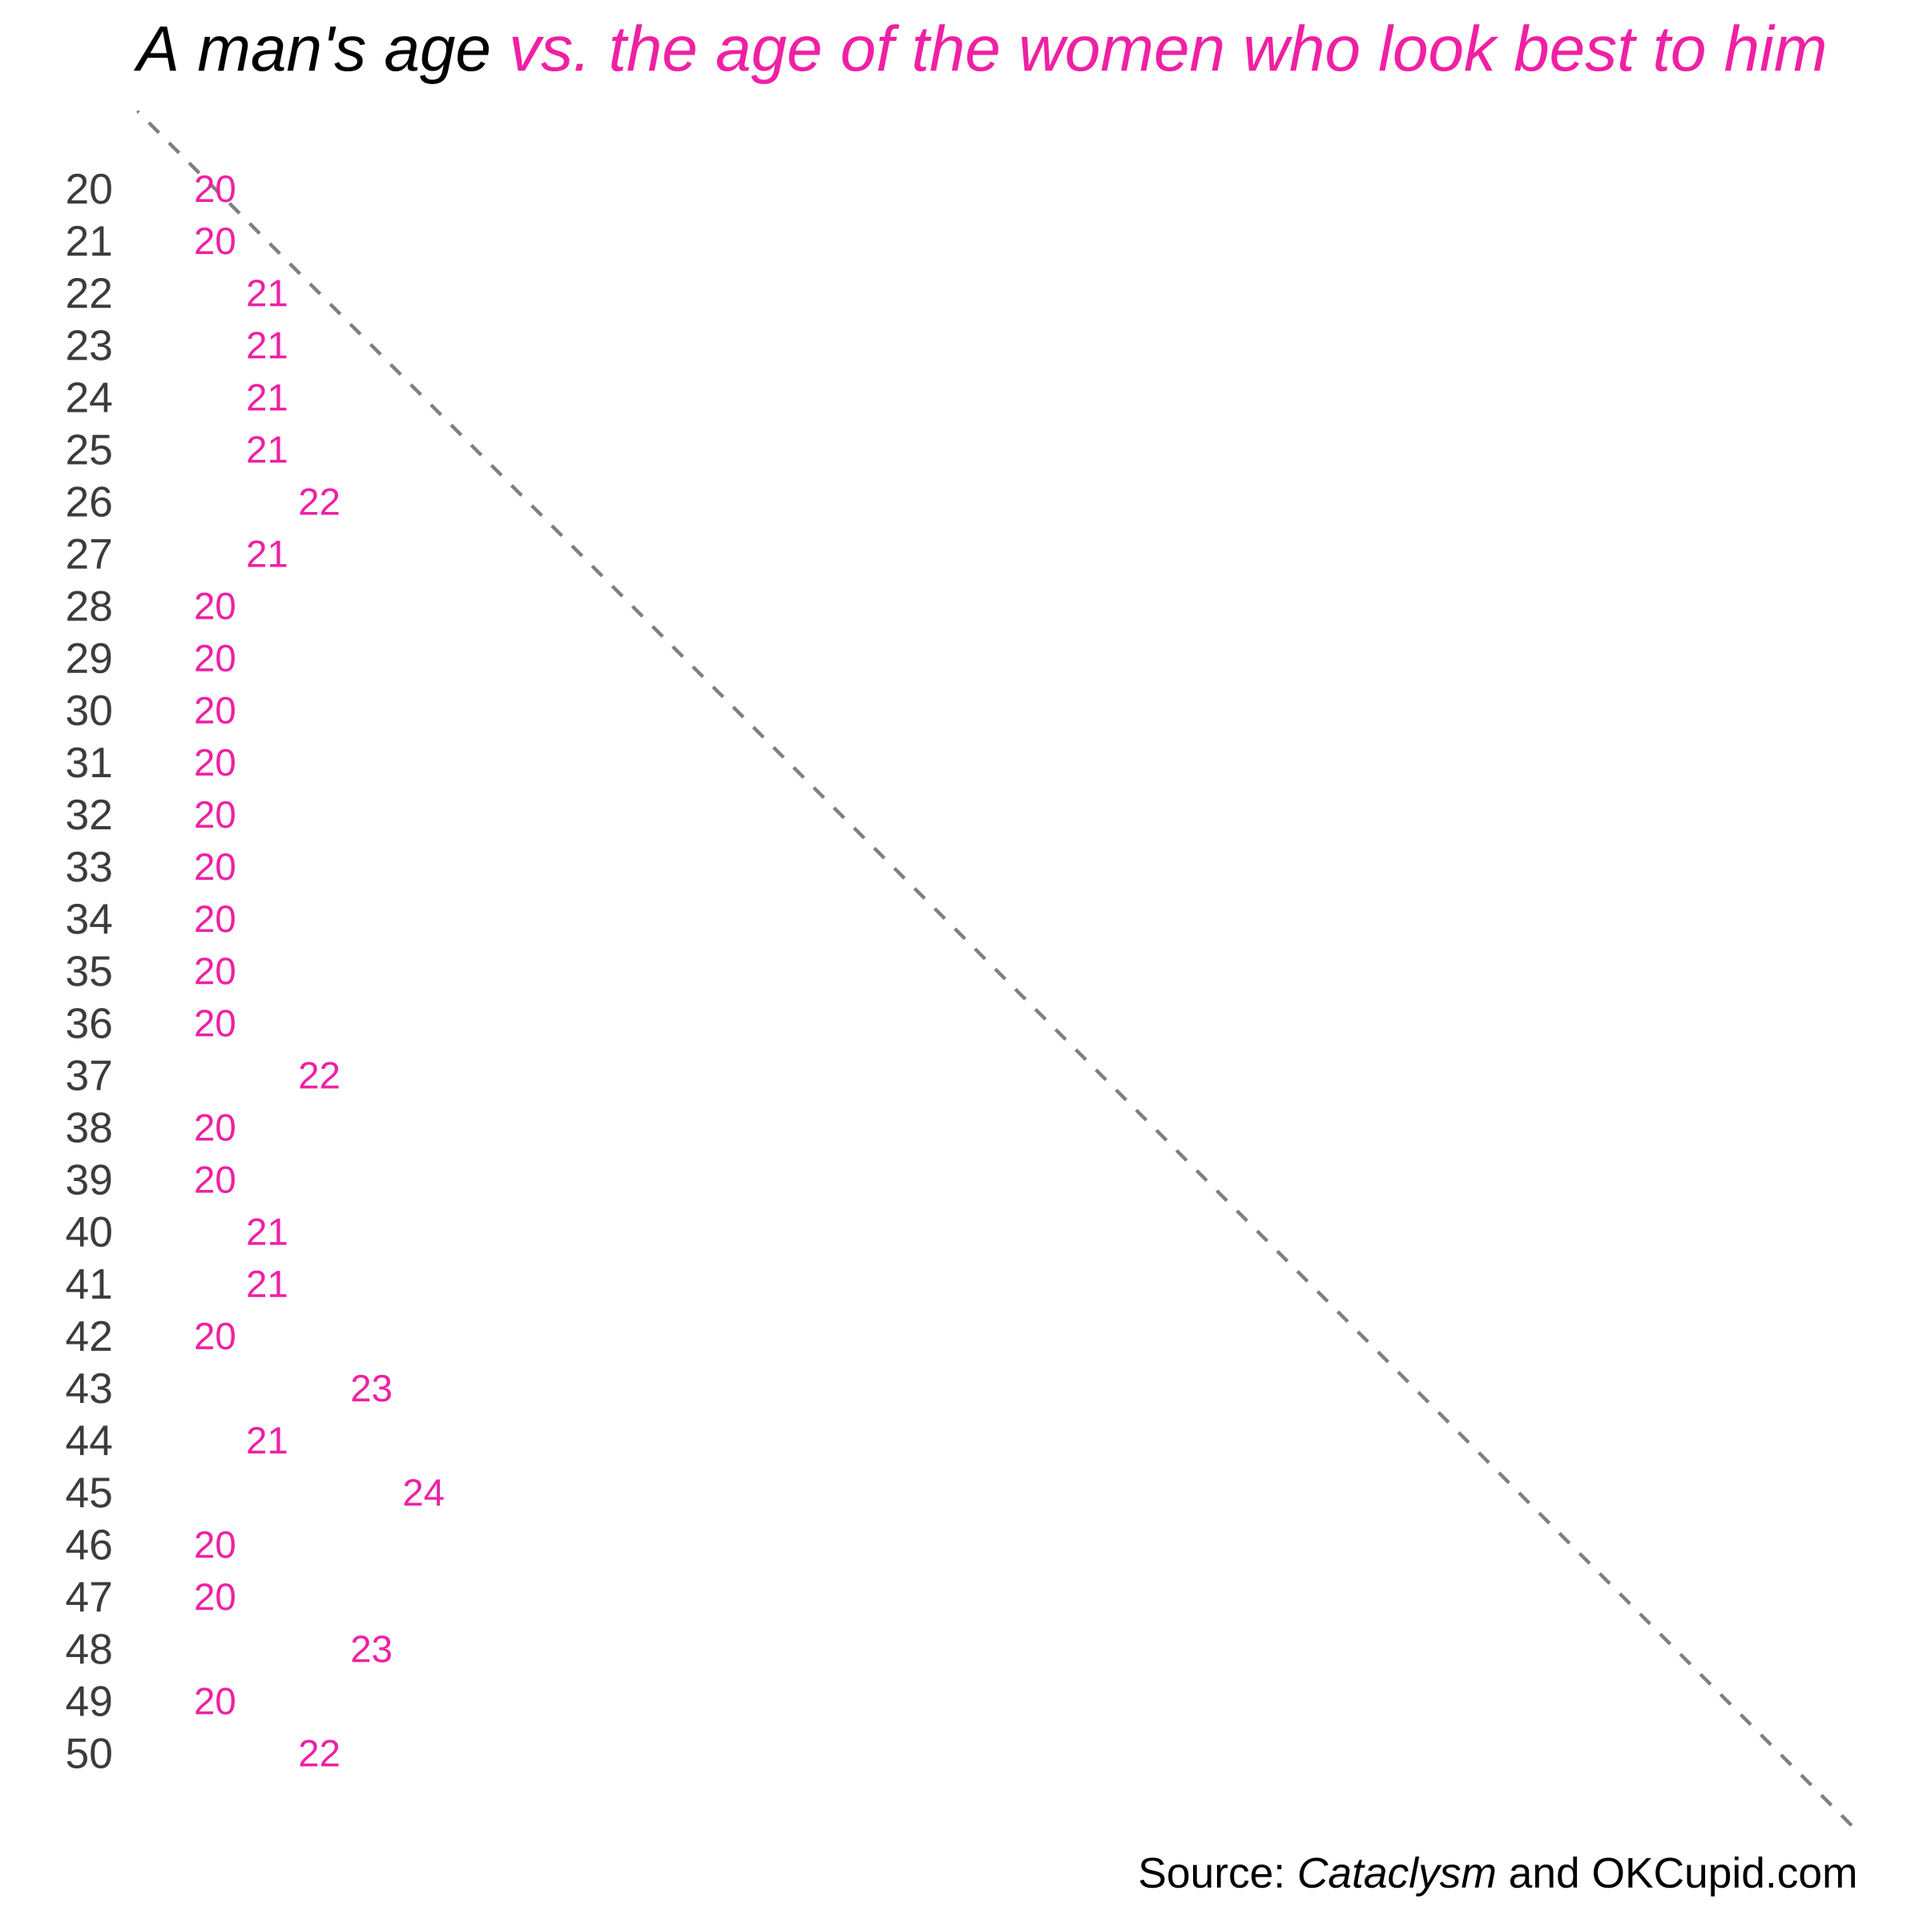
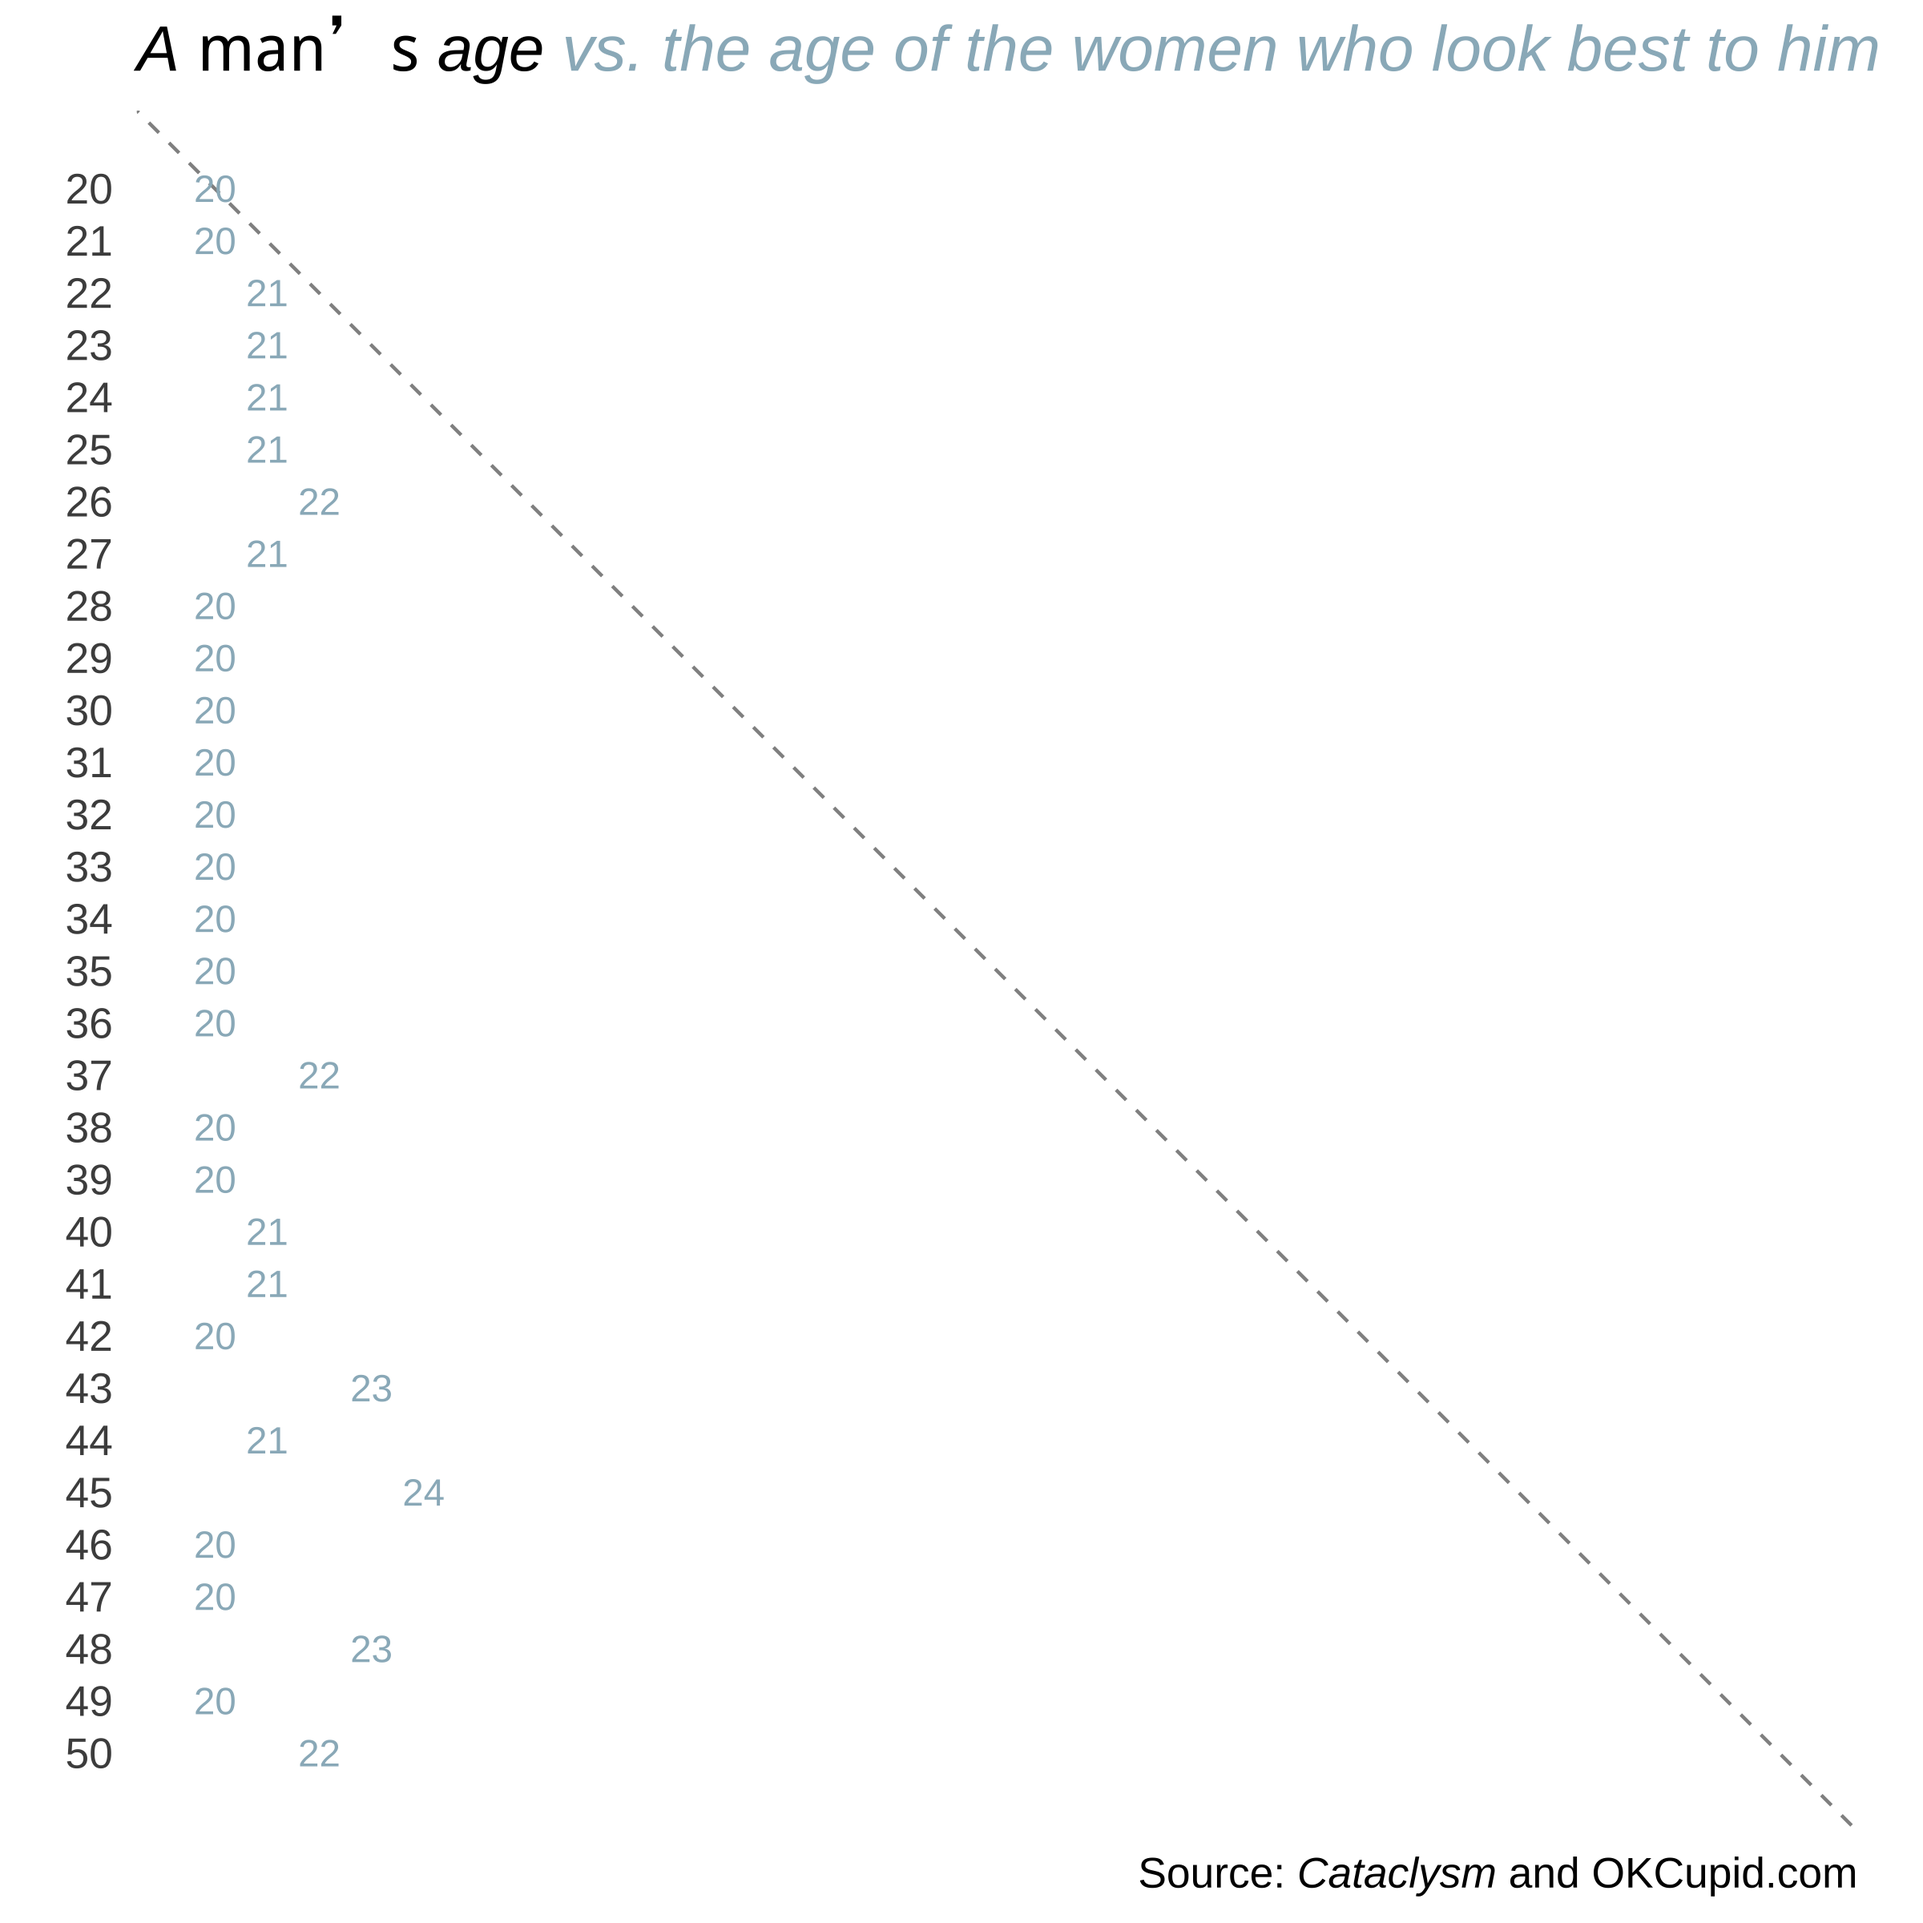
update themes

diff --git a/static/slides/15-interactive-reporting/xaringan-themer.css b/static/slides/15-interactive-reporting/xaringan-themer.css
@@ -15,27 +15,26 @@
  *    - xaringan wiki: https://github.com/yihui/xaringan/wiki
  *    - remarkjs wiki: https://github.com/gnab/remark/wiki
  *
- *  Version: 0.4.1
+ *  Version: 0.4.2
  *
- *  color sources: https://github.com/asteves/tayloRswift
  * ------------------------------------------------------- */
-@import url(https://fonts.googleapis.com/css?family=Roboto+Condensed:300,300i&display=swap);
-@import url(https://fonts.googleapis.com/css?family=Roboto+Condensed&display=swap);
-@import url(https://fonts.googleapis.com/css?family=Source+Code+Pro&display=swap);
+@import url(https://fonts.google.com/specimen/Nunito?stroke=Sans+Serif);
+@import url(https://fonts.googleapis.com/css?family=Afacad&display=swap);
+@import url(https://fonts.googleapis.com/css?family=Source+Code+Pro:400,700&display=swap);
 
 
 :root {
   /* Fonts */
-  --text-font-family: 'Roboto Condensed';
-  --text-font-is-google: 1;
+  --text-font-family: Nunito;
+  --text-font-is-google: 0;
   --text-font-family-fallback: -apple-system, BlinkMacSystemFont, avenir next, avenir, helvetica neue, helvetica, Ubuntu, roboto, noto, segoe ui, arial;
   --text-font-base: sans-serif;
-  --header-font-family: 'Roboto Condensed';
+  --header-font-family: Afacad;
   --header-font-is-google: 1;
   --header-font-family-fallback: Georgia, serif;
   --code-font-family: 'Source Code Pro';
   --code-font-is-google: 1;
-  --base-font-size: 24px;
+  --base-font-size: 28px;
   --text-font-size: 1rem;
   --code-font-size: 20px;
   --code-inline-font-size: 1em;
@@ -44,25 +43,20 @@
   --header-h3-font-size: 1.5rem;
 
   /* Colors */
-
-  --text-color: #2B152C;
-  --header-color: #586891,;
+  --text-color: #464A53;
+  --header-color: #586891;
   --background-color: #F1F3F2;
   --link-color: #586891;
   --text-bold-color: #586891;
-  --code-highlight-color: rgba(255,255,0,0.5);
-  --inverse-text-color: #2B152C;
+  --code-highlight-color: #9ab7c4;
+  --inverse-text-color: #464A53;
   --inverse-background-color: #B3A6A3;
-  --inverse-header-color: #2B152C;
+  --inverse-header-color: #464A53;
   --inverse-link-color: #586891;
   --title-slide-background-color: #586891;
   --title-slide-text-color: #F1F3F2;
   --header-background-color: #586891;
   --header-background-text-color: #F1F3F2;
-  --primary: #586891;
-  --secondary: #B3A6A3;
-  --white: #FFFFFF;
-  --black: #2B152C;
 }
 
 html {
@@ -71,7 +65,7 @@ html {
 
 body {
   font-family: var(--text-font-family), var(--text-font-family-fallback), var(--text-font-base);
-  font-weight: 300;
+  font-weight: normal;
   color: var(--text-color);
 }
 h1, h2, h3 {
@@ -103,10 +97,10 @@ h1, h2, h3 {
 }
 .remark-inline-code {
   font-size: var(--code-inline-font-size);
-  color: #586891;
+  color: #000;
 }
 .remark-slide-number {
-  color: #586891;
+  color: #B3A6A3;
   opacity: 1;
   font-size: 0.9rem;
 }
@@ -122,7 +116,7 @@ a, a > code {
   position: absolute;
   bottom: 60px;
   padding-right: 4em;
-  font-size: 0.9em;
+  font-size: 0.75em;
 }
 .remark-code-line-highlighted {
   background-color: var(--code-highlight-color);
@@ -154,10 +148,10 @@ a, a > code {
   float: left;
 }
 .left-column h2, .left-column h3 {
-  color: #80000099;
+  color: #777;
 }
 .left-column h2:last-of-type, .left-column h3:last-child {
-  color: #586891;
+  color: #000;
 }
 .right-column {
   width: 75%;
@@ -179,7 +173,7 @@ img, video, iframe {
   max-width: 100%;
 }
 blockquote {
-  border-left: solid 5px #B3A6A3;
+  border-left: solid 5px lightgray;
   padding-left: 1em;
 }
 .remark-slide table {
@@ -193,7 +187,9 @@ blockquote {
 th, td {
   padding: 5px;
 }
-.remark-slide thead, .remark-slide tfoot, .remark-slide tr:nth-child(even) {
+.remark-slide table:not(.table-unshaded) thead,
+.remark-slide table:not(.table-unshaded) tfoot,
+.remark-slide table:not(.table-unshaded) tr:nth-child(even) {
   background: #B3A6A3;
 }
 table.dataTable tbody {
@@ -204,7 +200,7 @@ table.dataTable.display tbody tr.odd {
   background-color: var(--background-color);
 }
 table.dataTable.display tbody tr.even {
-  background-color: #FAEECC;
+  background-color: #B3A6A3;
 }
 table.dataTable.hover tbody tr:hover, table.dataTable.display tbody tr:hover {
   background-color: rgba(255, 255, 255, 0.5);
@@ -274,122 +270,4 @@ table.dataTable.hover tbody tr:hover, table.dataTable.display tbody tr:hover {
   }
 }
 
-.primary {
-  color: var(--primary);
-}
-.bg-primary {
-  background-color: var(--primary);
-}
-.secondary {
-  color: var(--secondary);
-}
-.bg-secondary {
-  background-color: var(--secondary);
-}
-.white {
-  color: var(--white);
-}
-.bg-white {
-  background-color: var(--white);
-}
-.black {
-  color: var(--black);
-}
-.bg-black {
-  background-color: var(--black);
-}
 
-
-
-/* Extra CSS */
-h1 {
-  margin-block-start: 0.4rem;
-  margin-block-end: 0.4rem;
-}
-h2 {
-  margin-block-start: 0.4rem;
-  margin-block-end: 0.4rem;
-}
-h3 {
-  margin-block-start: 0.4rem;
-  margin-block-end: 0.4rem;
-}
-.tiny {
-  font-size: 70%;
-}
-.small {
-  font-size: 90%;
-}
-.midi {
-  font-size: 150%;
-}
-.tiny .remark-code {
-  font-size: 70%;
-}
-.small .remark-code {
-  font-size: 90%;
-}
-.midi .remark-code {
-  font-size: 150%;
-}
-.large {
-  font-size: 200%;
-}
-.xlarge {
-  font-size: 600%;
-}
-.huge {
-  font-size: 400%;
-  font-family: 'Montserrat', sans-serif;
-  font-weight: bold;
-}
-.hand {
-  font-family: 'Gochi Hand', cursive;
-  font-size: 125%;
-}
-.task {
-  padding-right: 10px;
-  padding-left: 10px;
-  padding-top: 3px;
-  padding-bottom: 3px;
-  margin-bottom: 6px;
-  margin-top: 6px;
-  border-left: solid 5px #AA9EB6 ;
-  background-color: #AA9EB6 ;
-}
-.pull-left {
-  width: 49%;
-  float: left;
-}
-.pull-right {
-  width: 49%;
-  float: right;
-}
-.pull-left-wide {
-  width: 70%;
-  float: left;
-}
-.pull-right-narrow {
-  width: 27%;
-  float: right;
-}
-.pull-left-narrow {
-  width: 27%;
-  float: left;
-}
-.pull-right-wide {
-  width: 70%;
-  float: right;
-}
-.blue {
-  color: #2A9BB7;
-}
-.purple {
-  color: #a493ba;
-}
-.yellow {
-  color: #f1de67;
-}
-.gray {
-  color: #464a53;
-}

diff --git a/static/slides/15-interactive-reporting/index.html b/static/slides/15-interactive-reporting/index.html
@@ -13,17 +13,21 @@
     <textarea id="source">
 class: center, middle, inverse, title-slide
 
+.title[
 # Interactive reporting
+]
+.author[
 ### MACS 40700 <br /> University of Chicago
+]
 
 ---
 
 
 
 
-## First lost tooth
+class: inverse
 
-&lt;img src="images/jacob-tooth.jpg" width="30%" style="display: block; margin: auto;" /&gt;
+# Agenda
 
 ---
 
@@ -125,6 +129,10 @@ class: inverse, middle
 ## Dating rules
 
 - [A Shiny app for determining if this relationship is skeezy](https://bensoltoff.shinyapps.io/age-rule/)
+&lt;blockquote class="twitter-tweet"&gt;&lt;p lang="en" dir="ltr"&gt;In &lt;a href="https://twitter.com/hashtag/RedTaylorsVersion?src=hash&amp;amp;ref_src=twsrc%5Etfw"&gt;#RedTaylorsVersion&lt;/a&gt;, Taylor Swift sings &amp;quot;I&amp;#39;ll get older, but your lovers stay my age&amp;quot;&lt;br&gt;&lt;br&gt;As a connoisseur of pop culture &amp;amp; statistics, I obviously had to analyze this 🤓&lt;br&gt;&lt;br&gt;Verdict: there is a significant interaction of Year x Person on Age across Jake&amp;#39;s relationships (p = 0.0084) &lt;a href="https://t.co/nZBs7RhWDS"&gt;pic.twitter.com/nZBs7RhWDS&lt;/a&gt;&lt;/p&gt;&amp;mdash; Celine St. Pierre (@stpierreceline) &lt;a href="https://twitter.com/stpierreceline/status/1460680119454945291?ref_src=twsrc%5Etfw"&gt;November 16, 2021&lt;/a&gt;&lt;/blockquote&gt; &lt;script async src="https://platform.twitter.com/widgets.js" charset="utf-8"&gt;&lt;/script&gt;
+
+
+[Relevant analysis](https://twitter.com/stpierreceline/status/1460680119454945291)
 
 ---
 
@@ -402,24 +410,25 @@ manager
 
 ```
 ## # A tibble: 26,232 × 18
-##    timestamp   how_old_are_you industry job_title additional_cont… annual_salary
-##    &lt;chr&gt;       &lt;chr&gt;           &lt;chr&gt;    &lt;chr&gt;     &lt;chr&gt;                    &lt;dbl&gt;
-##  1 4/27/2021 … 25-34           Educati… Research… &lt;NA&gt;                     55000
-##  2 4/27/2021 … 25-34           Computi… Change &amp;… &lt;NA&gt;                     54600
-##  3 4/27/2021 … 25-34           Account… Marketin… &lt;NA&gt;                     34000
-##  4 4/27/2021 … 25-34           Nonprof… Program … &lt;NA&gt;                     62000
-##  5 4/27/2021 … 25-34           Account… Accounti… &lt;NA&gt;                     60000
-##  6 4/27/2021 … 25-34           Educati… Scholarl… &lt;NA&gt;                     62000
-##  7 4/27/2021 … 25-34           Publish… Publishi… &lt;NA&gt;                     33000
-##  8 4/27/2021 … 25-34           Educati… Librarian High school, FT          50000
-##  9 4/27/2021 … 45-54           Computi… Systems … Data developer/…        112000
-## 10 4/27/2021 … 35-44           Account… Senior A… &lt;NA&gt;                     45000
-## # … with 26,222 more rows, and 12 more variables: other_monetary_comp &lt;dbl&gt;,
+##    timestamp          how_old_are_you industry  job_title additional_context_o…¹
+##    &lt;chr&gt;              &lt;chr&gt;           &lt;chr&gt;     &lt;chr&gt;     &lt;chr&gt;                 
+##  1 4/27/2021 11:02:10 25-34           Educatio… Research… &lt;NA&gt;                  
+##  2 4/27/2021 11:02:22 25-34           Computin… Change &amp;… &lt;NA&gt;                  
+##  3 4/27/2021 11:02:38 25-34           Accounti… Marketin… &lt;NA&gt;                  
+##  4 4/27/2021 11:02:41 25-34           Nonprofi… Program … &lt;NA&gt;                  
+##  5 4/27/2021 11:02:42 25-34           Accounti… Accounti… &lt;NA&gt;                  
+##  6 4/27/2021 11:02:46 25-34           Educatio… Scholarl… &lt;NA&gt;                  
+##  7 4/27/2021 11:02:51 25-34           Publishi… Publishi… &lt;NA&gt;                  
+##  8 4/27/2021 11:03:00 25-34           Educatio… Librarian High school, FT       
+##  9 4/27/2021 11:03:01 45-54           Computin… Systems … Data developer/ETL De…
+## 10 4/27/2021 11:03:02 35-44           Accounti… Senior A… &lt;NA&gt;                  
+## # ℹ 26,222 more rows
+## # ℹ abbreviated name: ¹additional_context_on_job_title
+## # ℹ 13 more variables: annual_salary &lt;dbl&gt;, other_monetary_comp &lt;dbl&gt;,
 ## #   currency &lt;chr&gt;, currency_other &lt;chr&gt;, additional_context_on_income &lt;chr&gt;,
 ## #   country &lt;chr&gt;, state &lt;chr&gt;, city &lt;chr&gt;,
 ## #   overall_years_of_professional_experience &lt;chr&gt;,
-## #   years_of_experience_in_field &lt;chr&gt;,
-## #   highest_level_of_education_completed &lt;chr&gt;, gender &lt;chr&gt;, race &lt;chr&gt;
+## #   years_of_experience_in_field &lt;chr&gt;, …
 ```
 
 ---
@@ -434,6 +443,8 @@ Go to the `shiny` project and code along in `manager-survey/app.R`.
     </textarea>
 <style data-target="print-only">@media screen {.remark-slide-container{display:block;}.remark-slide-scaler{box-shadow:none;}}</style>
 <script src="https://remarkjs.com/downloads/remark-latest.min.js"></script>
+<script src="assets/remark-zoom.js"></script>
+<script src="https://platform.twitter.com/widgets.js"></script>
 <script>var slideshow = remark.create({
 "highlightStyle": "magula",
 "highlightLines": true,
@@ -480,6 +491,19 @@ if (window.HTMLWidgets) slideshow.on('afterShowSlide', function (slide) {
     deleted = true;
   });
 })();
+// add `data-at-shortcutkeys` attribute to <body> to resolve conflicts with JAWS
+// screen reader (see PR #262)
+(function(d) {
+  let res = {};
+  d.querySelectorAll('.remark-help-content table tr').forEach(tr => {
+    const t = tr.querySelector('td:nth-child(2)').innerText;
+    tr.querySelectorAll('td:first-child .key').forEach(key => {
+      const k = key.innerText;
+      if (/^[a-z]$/.test(k)) res[k] = t;  // must be a single letter (key)
+    });
+  });
+  d.body.setAttribute('data-at-shortcutkeys', JSON.stringify(res));
+})(document);
 (function() {
   "use strict"
   // Replace <script> tags in slides area to make them executable
